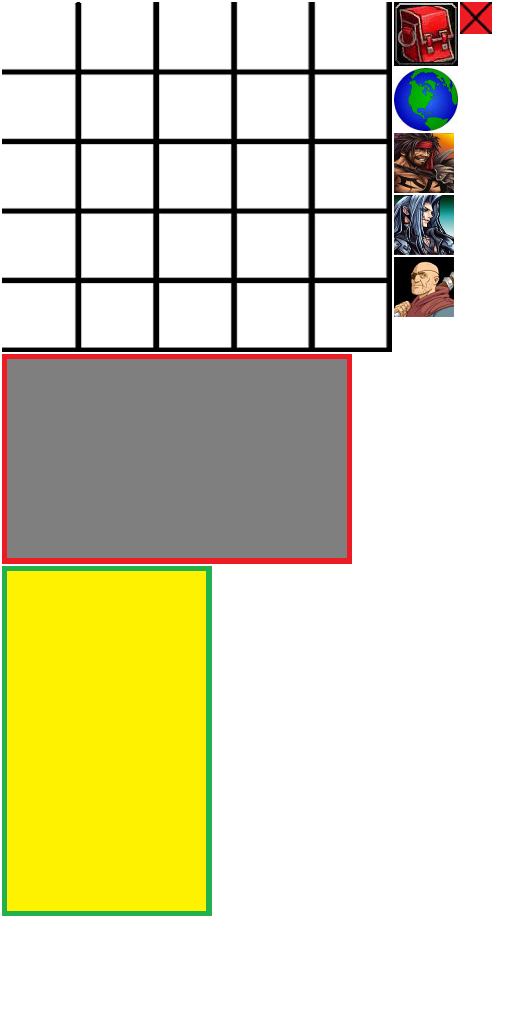
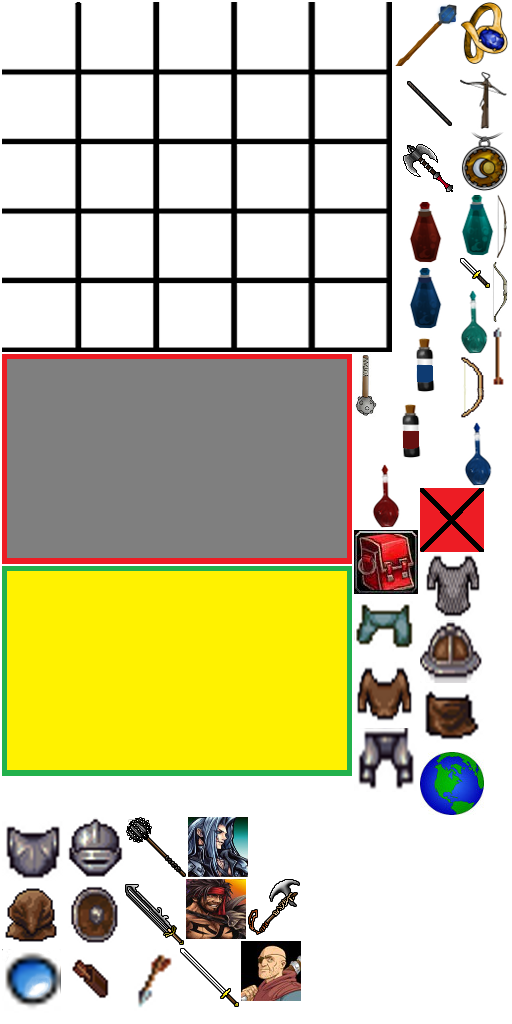
Updated Assets/ Inventory Scene

Changed region(s): [[0.0, 0.0, 1.0, 1.0], [0.6875, 0.3438, 0.75, 0.4062]]

diff --git a/DragonsReign/src/dragonsreign/texturepacker/GameAssets.java b/DragonsReign/src/dragonsreign/texturepacker/GameAssets.java
@@ -5,15 +5,58 @@ package dragonsreign.texturepacker;
 
 //$TexturePacker:SmartUpdate:b32fad1fafab53b6efd92049ba64d3b1:1/1$
 
+//Definitions for sprite sheet GameAssets.png
+//Created with TexturePacker www.codeandweb.com/texturepacker
+
+//$TexturePacker:SmartUpdate:a3977a309073fae1159361bc2d3782b3:1/1$
+
+
 public interface GameAssets
 {
-	public static final int BACKPACK_ID = 0;
-	public static final int CURRENTEQUIPMENTSLOTS_ID = 1;
-	public static final int EXITBUTTON_ID = 2;
-	public static final int INVENTORY_ID = 3;
-	public static final int PORTRAIT_ID = 4;
-	public static final int PORTRAIT2_ID = 5;
-	public static final int PORTRAIT3_ID = 6;
-	public static final int STATSAREA_ID = 7;
-	public static final int WORLDMAP_ID = 8;
+	public static final int ARMOR_AMULET_ID = 0;
+	public static final int ARMOR_HEAVYHELM_ID = 1;
+	public static final int ARMOR_HEAVYLOWER_ID = 2;
+	public static final int ARMOR_HEAVYUPPER_ID = 3;
+	public static final int ARMOR_LIGHTHELM_ID = 4;
+	public static final int ARMOR_LIGHTLOWER_ID = 5;
+	public static final int ARMOR_LIGHTUPPER_ID = 6;
+	public static final int ARMOR_MEDIUMHELM_ID = 7;
+	public static final int ARMOR_MEDIUMLOWER_ID = 8;
+	public static final int ARMOR_MEDIUMUPPER_ID = 9;
+	public static final int ARMOR_RING_ID = 10;
+	public static final int ARMOR_SHIELD_ID = 11;
+	public static final int BACKPACK_ID = 12;
+	public static final int CURRENTEQUIPMENTSLOTS_ID = 13;
+	public static final int EXIT_ID = 14;
+	public static final int INVENTORY_ID = 15;
+	public static final int PORTRAIT_ID = 16;
+	public static final int PORTRAIT2_ID = 17;
+	public static final int PORTRAIT3_ID = 18;
+	public static final int POTIONS_FULLREVIVE_ID = 19;
+	public static final int POTIONS_HALFREVIVE_ID = 20;
+	public static final int POTIONS_MAJORHEALTH_ID = 21;
+	public static final int POTIONS_MAJORRESOURCE_ID = 22;
+	public static final int POTIONS_MINORHEALTH_ID = 23;
+	public static final int POTIONS_MINORRESOURCE_ID = 24;
+	public static final int POTIONS_SUPERIORRESOURCE_ID = 25;
+	public static final int POTIONS_SUPIERIORHEALTH_ID = 26;
+	public static final int STATSAREA_ID = 27;
+	public static final int WEAPONS_1HAXE_ID = 28;
+	public static final int WEAPONS_1HMACE_ID = 29;
+	public static final int WEAPONS_1HSWORD_ID = 30;
+	public static final int WEAPONS_2HAXE_ID = 31;
+	public static final int WEAPONS_2HMACE_ID = 32;
+	public static final int WEAPONS_2HSWORD_ID = 33;
+	public static final int WEAPONS_LONGBOW1_ID = 34;
+	public static final int WEAPONS_ARROW_ID = 35;
+	public static final int WEAPONS_BOLT_ID = 36;
+	public static final int WEAPONS_CROSSBOW_ID = 37;
+	public static final int WEAPONS_DAGGER_ID = 38;
+	public static final int WEAPONS_LONGBOW_ID = 39;
+	public static final int WEAPONS_ORB_ID = 40;
+	public static final int WEAPONS_QUIVER_ID = 41;
+	public static final int WEAPONS_SHORTBOW_ID = 42;
+	public static final int WEAPONS_STAFF_ID = 43;
+	public static final int WEAPONS_WAND_ID = 44;
+	public static final int WORLDMAP_ID = 45;
 }

diff --git a/DragonsReign/src/dragonsreign/scene/InventoryScene.java b/DragonsReign/src/dragonsreign/scene/InventoryScene.java
@@ -116,7 +116,8 @@ public class InventoryScene extends BaseScene
             	{
                 	case TouchEvent.ACTION_DOWN:
                 		onBackKeyPressed();
-                		break;
+                		
+					break;
 
                 }
                 return true;
@@ -183,7 +184,8 @@ public class InventoryScene extends BaseScene
 		character3ManaBar.setPosition(560, 70);
 		character3XpBar.setPosition(560, 90);
 		
-		exitButton.setPosition(768, 0);
+		exitButton.setPosition(-12,-12);
+		exitButton.setScale(0.5f);
 		////////////////////////////////////////////////////////////////////////////////////
 		//Attach Sprites
 		////////////////////////////////////////////////////////////////////////////////////

diff --git a/DragonsReign/src/dragonsreign/manager/ResourceManager.java b/DragonsReign/src/dragonsreign/manager/ResourceManager.java
@@ -257,7 +257,7 @@ public class ResourceManager
     	character2Portrait = texturePackLibrary.get(GameAssets.PORTRAIT2_ID);
     	character3Portrait = texturePackLibrary.get(GameAssets.PORTRAIT3_ID);
     	
-    	exitButton = texturePackLibrary.get(GameAssets.EXITBUTTON_ID);
+    	exitButton = texturePackLibrary.get(GameAssets.EXIT_ID);
     	inventoryGid = texturePackLibrary.get(GameAssets.INVENTORY_ID);
     	equipmentArea = texturePackLibrary.get(GameAssets.CURRENTEQUIPMENTSLOTS_ID);
     	statsArea = texturePackLibrary.get(GameAssets.STATSAREA_ID);
